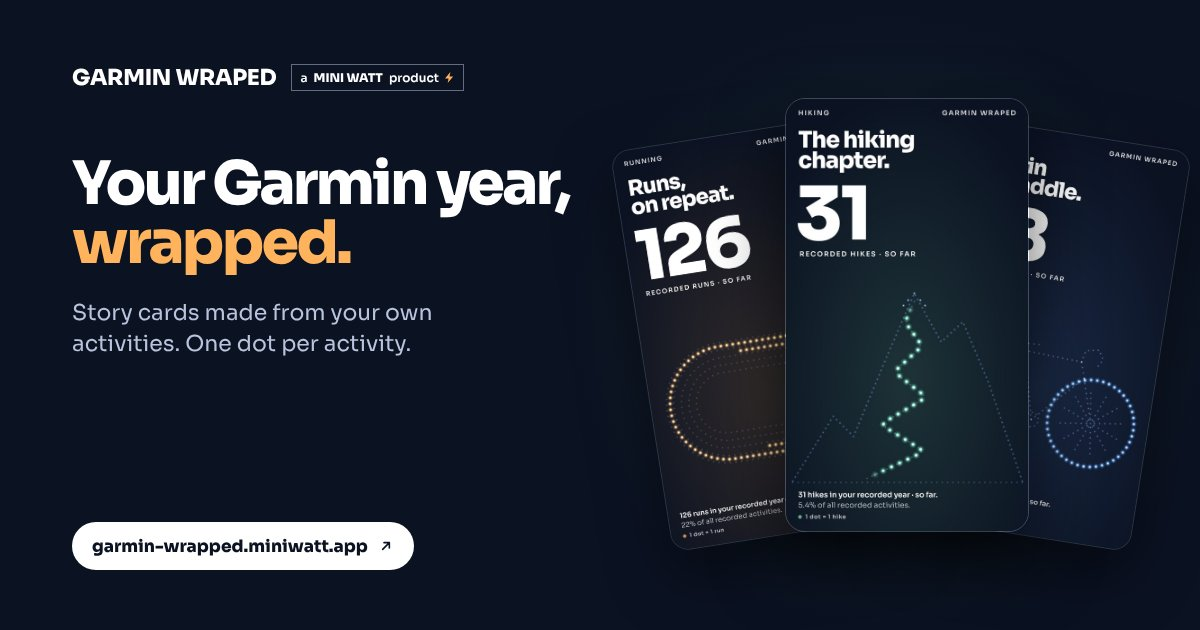
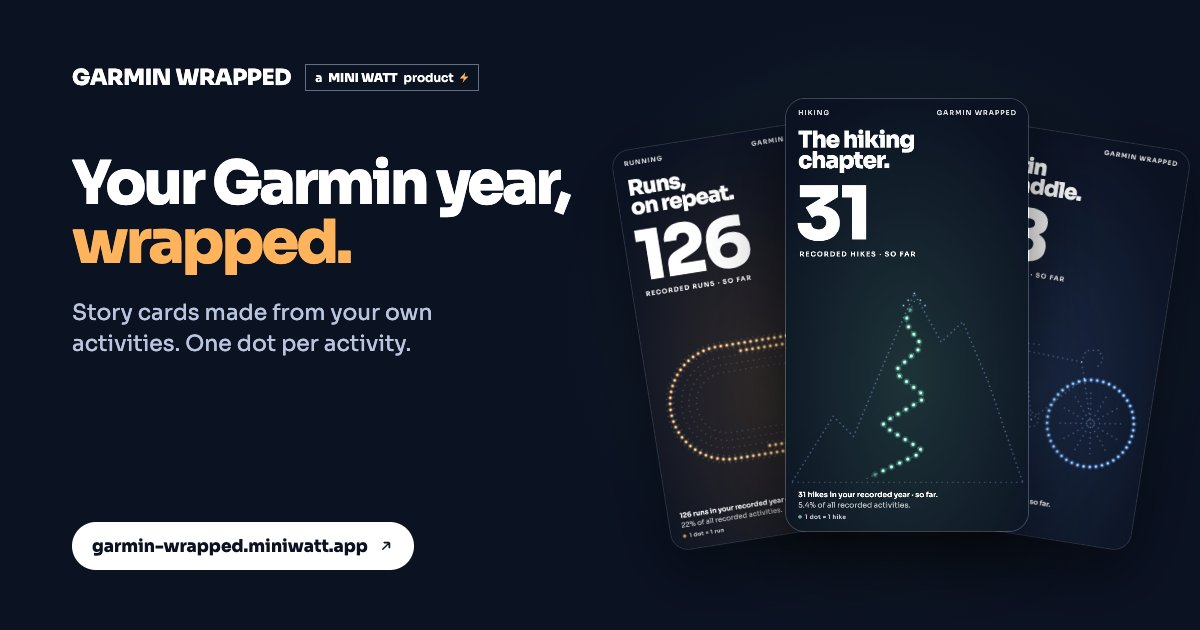
wraped typo

diff --git a/track-record-stories/ui/index.html b/track-record-stories/ui/index.html
@@ -21,12 +21,12 @@
   <meta property="og:image:type" content="image/jpeg">
   <meta property="og:image:width" content="1200">
   <meta property="og:image:height" content="630">
-  <meta property="og:image:alt" content="Your Garmin year, wrapped. Three Garmin Wraped story cards (hiking, running and cycling) drawn in glowing dots, by MINI WATT.">
+  <meta property="og:image:alt" content="Your Garmin year, wrapped. Three Garmin Wrapped story cards (hiking, running and cycling) drawn in glowing dots, by MINI WATT.">
   <meta name="twitter:card" content="summary_large_image">
   <meta name="twitter:title" content="Garmin Wrapped: Your Garmin Connect Year in Review">
   <meta name="twitter:description" content="Turn your Garmin Connect activities into a personal year in review with sport highlights and shareable story cards.">
   <meta name="twitter:image" content="https://garmin-wrapped.miniwatt.app/social-preview.jpg">
-  <meta name="twitter:image:alt" content="Your Garmin year, wrapped. Three Garmin Wraped story cards (hiking, running and cycling) drawn in glowing dots, by MINI WATT.">
+  <meta name="twitter:image:alt" content="Your Garmin year, wrapped. Three Garmin Wrapped story cards (hiking, running and cycling) drawn in glowing dots, by MINI WATT.">
   <script type="application/ld+json">
     {
       "@context": "https://schema.org",
@@ -41,8 +41,7 @@
           "@type": "WebSite",
           "@id": "https://garmin-wrapped.miniwatt.app/#website",
           "url": "https://garmin-wrapped.miniwatt.app/",
-          "name": "Garmin Wraped",
-          "alternateName": "Garmin Wrapped",
+          "name": "Garmin Wrapped",
           "inLanguage": "en",
           "publisher": { "@id": "https://miniwatt.app/#organization" }
         },
@@ -50,8 +49,7 @@
           "@type": "WebApplication",
           "@id": "https://garmin-wrapped.miniwatt.app/#app",
           "url": "https://garmin-wrapped.miniwatt.app/",
-          "name": "Garmin Wraped",
-          "alternateName": "Garmin Wrapped",
+          "name": "Garmin Wrapped",
           "description": "Create a personal Garmin Connect year in review with year-to-date activity totals, sport highlights and downloadable story cards.",
           "applicationCategory": "HealthApplication",
           "operatingSystem": "Any",
@@ -78,7 +76,7 @@
 <body class="onboarding-active">
   <canvas id="entry-field" class="gw-field" aria-hidden="true"></canvas>
   <div id="entry-intro" class="gw-intro" role="region" aria-label="Your Garmin Wrapped intro" hidden>
-    <div class="gw-intro-top"><span class="gw-wordmark">GARMIN WRAPED</span><button id="intro-skip" class="gw-text-btn" type="button">Skip intro <svg class="gw-arrow" viewBox="0 0 24 24" aria-hidden="true"><path d="M5 19 19 5M7 5h12v12"/></svg></button></div>
+    <div class="gw-intro-top"><span class="gw-wordmark">GARMIN WRAPPED</span><button id="intro-skip" class="gw-text-btn" type="button">Skip intro <svg class="gw-arrow" viewBox="0 0 24 24" aria-hidden="true"><path d="M5 19 19 5M7 5h12v12"/></svg></button></div>
     <div class="gw-intro-scene gw-intro-one" aria-hidden="true">
       <p class="gw-kicker">Every effort. All yours.</p>
       <p class="gw-display"><span class="gw-line"><span>Your Garmin,</span></span><span class="gw-line"><span>wrapped<i>.</i></span></span></p>
@@ -103,7 +101,7 @@
   </div>
   <main class="onboarding gw-entry" id="onboarding" aria-label="Your Garmin year, wrapped">
     <header class="gw-header">
-      <div class="brand"><a class="brand-name" href="#connect" aria-label="Garmin Wraped home">GARMIN WRAPED</a><a class="brand-product product-credit" href="https://miniwatt.app/?utm_source=garmin_wraped&amp;utm_medium=referral&amp;utm_campaign=product_credit&amp;utm_content=header" target="_blank" rel="noopener noreferrer">a <strong>MINI WATT</strong> product <svg class="gw-bolt" viewBox="0 0 10 12" aria-hidden="true"><path d="M6 0 0 7h4l-1 5 6-7H5z"/></svg><span class="sr-only"> (opens in a new tab)</span></a></div>
+      <div class="brand"><a class="brand-name" href="#connect" aria-label="Garmin Wrapped home">GARMIN WRAPPED</a><a class="brand-product product-credit" href="https://miniwatt.app/?utm_source=garmin_wrapped&amp;utm_medium=referral&amp;utm_campaign=product_credit&amp;utm_content=header" target="_blank" rel="noopener noreferrer">a <strong>MINI WATT</strong> product <svg class="gw-bolt" viewBox="0 0 10 12" aria-hidden="true"><path d="M6 0 0 7h4l-1 5 6-7H5z"/></svg><span class="sr-only"> (opens in a new tab)</span></a></div>
       <span class="gw-kicker gw-edition" id="entry-edition">Your year in review</span>
     </header>
     <div id="connect-screen" class="gw-connect">
@@ -185,16 +183,16 @@
       <a class="gw-source" href="https://developer.garmin.com/gc-developer-program/personal/personal-faq/" target="_blank" rel="noopener noreferrer">Instructions from Garmin’s official Personal API FAQ ↗<span class="sr-only"> (opens in a new tab)</span></a>
       <div class="gw-actions"><!--dev-only--><button id="help-demo" class="gw-btn gw-btn-ghost">Try the demo</button><!--/dev-only--><button id="help-done" class="gw-btn gw-btn-primary">I’ve got my key</button></div>
     </div>
-    <p class="gw-fine help-preview-note">Use only your own Garmin account’s key.<!--dev-only--> The demo needs no key and uses fictional data.<!--/dev-only--> Garmin Wraped is an independent MINI WATT project, not affiliated with Garmin.</p>
+    <p class="gw-fine help-preview-note">Use only your own Garmin account’s key.<!--dev-only--> The demo needs no key and uses fictional data.<!--/dev-only--> Garmin Wrapped is an independent MINI WATT project, not affiliated with Garmin.</p>
   </dialog>
   <main class="story" hidden inert id="story" aria-label="Your year in motion">
     <canvas id="backdrop" aria-hidden="true"></canvas>
     <canvas id="poster" aria-hidden="true"></canvas>
-    <div id="card-actions" class="card-actions mw-promo" hidden><div id="mini-watt-offer" hidden><div class="mw-copy"><p class="mw-brand"><svg class="mw-bolt" viewBox="0 0 10 12" aria-hidden="true"><path d="M6 0 0 7h4l-1 5 6-7H5z"/></svg>MINI WATT</p><h2 class="mw-title">Keep riding <span>indoors.</span></h2><p class="mw-lede">Put your bike on a smart trainer. Ride workouts and real routes.</p></div><div class="mw-art"><div class="mw-rider"><img class="mw-halftone" src="/assets/miniwatt-halftone.svg" alt="" aria-hidden="true"><img class="mw-photo" src="/assets/miniwatt-rider.webp" alt="A rider pedalling a road bike mounted on a smart trainer" width="600" height="950" decoding="async"><span class="mw-trail" aria-hidden="true"><i></i><i></i><i></i><i></i><i></i><i></i><i></i><i></i></span></div></div><div class="mw-chips" aria-hidden="true"><div class="mw-chip"><span class="mw-chip-icon is-bolt"><svg viewBox="0 0 10 12" aria-hidden="true"><path d="M6 0 0 7h4l-1 5 6-7H5z"/></svg></span><span class="mw-chip-text"><span class="mw-chip-label">Power</span><span class="mw-chip-value"><span id="mw-power">248</span> <small>W</small></span></span></div><div class="mw-chip"><span class="mw-chip-icon"><svg viewBox="0 0 21 21" fill="none" stroke="currentColor" stroke-width="2.2" stroke-linecap="round"><path d="M3 18v-6M8 18V6M13 18V9M18 18V3"/></svg></span><span class="mw-chip-text"><span class="mw-chip-label">Next interval</span><span class="mw-chip-value"><span id="mw-next">280</span> W <small class="mw-hi">in <span id="mw-countdown">0:42</span></small></span></span></div><div class="mw-chip mw-chip-gradient"><span class="mw-chip-icon"><svg viewBox="0 0 21 21" fill="none" stroke="currentColor" stroke-width="2.2" stroke-linecap="round" stroke-linejoin="round"><path d="M3 18c3 0 3-5 6-5s3 3 6 3 3-7 3-10"/></svg></span><span class="mw-chip-text"><span class="mw-chip-label">Gradient</span><span class="mw-chip-value">7.2 <small>%</small></span></span></div></div><p class="mw-sticker" aria-hidden="true"><span>14 days</span><b>Free</b></p><div class="mw-action"><a class="mini-watt-cta" href="https://www.miniwatt.app/download?utm_source=garmin_wraped&amp;utm_medium=referral&amp;utm_campaign=cycling_promotion&amp;utm_content=recap_cta" target="_blank" rel="noopener noreferrer"><span>Try MINI WATT free</span><span class="mw-arrow" aria-hidden="true"><svg viewBox="0 0 24 24" fill="none" stroke="currentColor" stroke-width="2.4" stroke-linecap="round" stroke-linejoin="round"><path d="M7 17 17 7M9 7h8v8"/></svg></span><span class="sr-only"> (opens in a new tab)</span></a><p class="mini-watt-details"><span class="sr-only">14 days free. </span>Then <b>$1.99/month</b> · Mac + Windows<br>Works with any Bluetooth FTMS smart trainer</p></div></div></div>
+    <div id="card-actions" class="card-actions mw-promo" hidden><div id="mini-watt-offer" hidden><div class="mw-copy"><p class="mw-brand"><svg class="mw-bolt" viewBox="0 0 10 12" aria-hidden="true"><path d="M6 0 0 7h4l-1 5 6-7H5z"/></svg>MINI WATT</p><h2 class="mw-title">Keep riding <span>indoors.</span></h2><p class="mw-lede">Put your bike on a smart trainer. Ride workouts and real routes.</p></div><div class="mw-art"><div class="mw-rider"><img class="mw-halftone" src="/assets/miniwatt-halftone.svg" alt="" aria-hidden="true"><img class="mw-photo" src="/assets/miniwatt-rider.webp" alt="A rider pedalling a road bike mounted on a smart trainer" width="600" height="950" decoding="async"><span class="mw-trail" aria-hidden="true"><i></i><i></i><i></i><i></i><i></i><i></i><i></i><i></i></span></div></div><div class="mw-chips" aria-hidden="true"><div class="mw-chip"><span class="mw-chip-icon is-bolt"><svg viewBox="0 0 10 12" aria-hidden="true"><path d="M6 0 0 7h4l-1 5 6-7H5z"/></svg></span><span class="mw-chip-text"><span class="mw-chip-label">Power</span><span class="mw-chip-value"><span id="mw-power">248</span> <small>W</small></span></span></div><div class="mw-chip"><span class="mw-chip-icon"><svg viewBox="0 0 21 21" fill="none" stroke="currentColor" stroke-width="2.2" stroke-linecap="round"><path d="M3 18v-6M8 18V6M13 18V9M18 18V3"/></svg></span><span class="mw-chip-text"><span class="mw-chip-label">Next interval</span><span class="mw-chip-value"><span id="mw-next">280</span> W <small class="mw-hi">in <span id="mw-countdown">0:42</span></small></span></span></div><div class="mw-chip mw-chip-gradient"><span class="mw-chip-icon"><svg viewBox="0 0 21 21" fill="none" stroke="currentColor" stroke-width="2.2" stroke-linecap="round" stroke-linejoin="round"><path d="M3 18c3 0 3-5 6-5s3 3 6 3 3-7 3-10"/></svg></span><span class="mw-chip-text"><span class="mw-chip-label">Gradient</span><span class="mw-chip-value">7.2 <small>%</small></span></span></div></div><p class="mw-sticker" aria-hidden="true"><span>14 days</span><b>Free</b></p><div class="mw-action"><a class="mini-watt-cta" href="https://www.miniwatt.app/download?utm_source=garmin_wrapped&amp;utm_medium=referral&amp;utm_campaign=cycling_promotion&amp;utm_content=recap_cta" target="_blank" rel="noopener noreferrer"><span>Try MINI WATT free</span><span class="mw-arrow" aria-hidden="true"><svg viewBox="0 0 24 24" fill="none" stroke="currentColor" stroke-width="2.4" stroke-linecap="round" stroke-linejoin="round"><path d="M7 17 17 7M9 7h8v8"/></svg></span><span class="sr-only"> (opens in a new tab)</span></a><p class="mini-watt-details"><span class="sr-only">14 days free. </span>Then <b>$1.99/month</b> · Mac + Windows<br>Works with any Bluetooth FTMS smart trainer</p></div></div></div>
     <div id="share-prompt" class="share-prompt" role="region" aria-label="Share your year" hidden><div class="share-prompt-copy"><strong>Share your year</strong></div><button id="finale-share" class="share-prompt-button" type="button">Share</button><button id="share-prompt-close" class="share-prompt-close" type="button" aria-label="Dismiss"><svg viewBox="0 0 24 24" fill="none" stroke="currentColor" stroke-width="1.8" stroke-linecap="round" aria-hidden="true"><path d="M6 6l12 12M18 6 6 18"/></svg></button></div>
     <div class="story-chrome">
       <header>
-        <div class="brand"><a class="brand-name" href="#cover" aria-label="Garmin Wraped back to the cover">GARMIN WRAPED</a><a class="brand-product product-credit" href="https://miniwatt.app/?utm_source=garmin_wraped&amp;utm_medium=referral&amp;utm_campaign=product_credit&amp;utm_content=header" target="_blank" rel="noopener noreferrer">a <strong>MINI WATT</strong> product <span aria-hidden="true">⚡ ↗</span><span class="sr-only"> (opens in a new tab)</span></a></div>
+        <div class="brand"><a class="brand-name" href="#cover" aria-label="Garmin Wrapped back to the cover">GARMIN WRAPPED</a><a class="brand-product product-credit" href="https://miniwatt.app/?utm_source=garmin_wrapped&amp;utm_medium=referral&amp;utm_campaign=product_credit&amp;utm_content=header" target="_blank" rel="noopener noreferrer">a <strong>MINI WATT</strong> product <span aria-hidden="true">⚡ ↗</span><span class="sr-only"> (opens in a new tab)</span></a></div>
         <div class="edition"><span>YOUR YEAR</span><span id="edition-year"></span></div>
         <button class="icon-button menu-button" id="chapters-button" aria-label="Choose a story" aria-expanded="false" aria-controls="chapters-dialog"><svg viewBox="0 0 24 24" fill="none" stroke="currentColor" stroke-width="1.5" aria-hidden="true"><path d="M4 6h16M4 12h16M4 18h16"/></svg></button>
         <button class="icon-button share-icon" id="share-icon" type="button" aria-label="Share this card"><svg viewBox="0 0 24 24" fill="none" stroke="currentColor" stroke-width="1.6" stroke-linecap="round" stroke-linejoin="round" aria-hidden="true"><path d="M12 14V3M7.5 7.5 12 3l4.5 4.5"/><path d="M5 11v8a2 2 0 0 0 2 2h10a2 2 0 0 0 2-2v-8"/></svg></button>
@@ -204,7 +202,7 @@
       <section class="sr-only" aria-live="polite" aria-atomic="true"><h1 id="story-title">Your year in motion</h1><p id="story-description"></p></section>
       <footer>
         <div class="footer-top"><div class="footer-copy"><p id="caption"></p><p id="dot-key" class="dot-key" hidden></p></div><button id="advance" class="advance" aria-label="Next story"><svg viewBox="0 0 24 24" fill="none" stroke="currentColor" stroke-width="1.6" aria-hidden="true"><path d="m9 5 7 7-7 7"/></svg></button></div>
-        <div class="footer-bottom"><span class="demo-label"></span><a class="footer-credit product-credit" href="https://miniwatt.app/?utm_source=garmin_wraped&amp;utm_medium=referral&amp;utm_campaign=product_credit&amp;utm_content=footer" target="_blank" rel="noopener noreferrer">a <strong>MINI WATT</strong> product <span aria-hidden="true">⚡ ↗</span><span class="sr-only"> (opens in a new tab)</span></a><div class="footer-actions"><button id="back" class="text-button" aria-label="Previous story">Back</button><button id="motion" class="text-button" aria-pressed="false">Pause</button><button id="share" class="text-button">Share card <span aria-hidden="true">↗</span></button></div></div>
+        <div class="footer-bottom"><span class="demo-label"></span><a class="footer-credit product-credit" href="https://miniwatt.app/?utm_source=garmin_wrapped&amp;utm_medium=referral&amp;utm_campaign=product_credit&amp;utm_content=footer" target="_blank" rel="noopener noreferrer">a <strong>MINI WATT</strong> product <span aria-hidden="true">⚡ ↗</span><span class="sr-only"> (opens in a new tab)</span></a><div class="footer-actions"><button id="back" class="text-button" aria-label="Previous story">Back</button><button id="motion" class="text-button" aria-pressed="false">Pause</button><button id="share" class="text-button">Share card <span aria-hidden="true">↗</span></button></div></div>
       </footer>
     </div>
   </main>
@@ -242,7 +240,7 @@
   <dialog id="privacy-dialog" class="gw-dialog gw-privacy-dialog" aria-labelledby="privacy-title">
     <div class="gw-dialog-head"><div><p class="gw-kicker gw-accent">Data &amp; privacy</p><h2 id="privacy-title" class="gw-dialog-title">Your data.<br>Your call<i>.</i></h2></div><button id="close-privacy" class="gw-close" aria-label="Close privacy"><svg viewBox="0 0 24 24" aria-hidden="true"><path d="M5 5l14 14M19 5 5 19"/></svg></button></div>
     <div class="privacy-copy">
-      <p class="gw-dialog-intro">Garmin Wraped is an independent MINI WATT project. Each visitor connects only their own Garmin account using their own Personal API key. Garmin Wraped is not affiliated with or endorsed by Garmin.</p>
+      <p class="gw-dialog-intro">Garmin Wrapped is an independent MINI WATT project. Each visitor connects only their own Garmin account using their own Personal API key. Garmin Wrapped is not affiliated with or endorsed by Garmin.</p>
       <div class="gw-privacy-grid">
         <section style="--c:#FFB35C"><h3>Your key</h3><p>Your key is exchanged with Garmin by this site’s server over HTTPS and never stored there. If you tick “Remember my key”, it is kept in this browser’s storage until you select Forget key or Clear my data. A secure, encrypted connection cookie expires after 20 minutes and is cleared when the import finishes or you disconnect. Tabs in the same browser share a connection cookie; import one account at a time.</p></section>
         <section style="--c:#6FA8FF"><h3>Your recap</h3><p>The recap lives only in this tab’s memory. Refreshing or closing the tab removes it. “Clear my data” removes the recap, export preview, connection cookie and any remembered key. Downloaded PNG files and shares you send remain on your device or in the receiving app.</p></section>

diff --git a/track-record-stories/public/privacy.html b/track-record-stories/public/privacy.html
@@ -4,8 +4,8 @@
   <meta charset="utf-8">
   <meta name="viewport" content="width=device-width,initial-scale=1,viewport-fit=cover">
   <meta name="theme-color" content="#0B1222">
-  <meta name="description" content="How Garmin Wraped handles your Garmin key, activity and health data, cookies and browser storage. No analytics, no tracking, no ads.">
-  <title>Privacy &amp; cookies | Garmin Wraped by MINI WATT</title>
+  <meta name="description" content="How Garmin Wrapped handles your Garmin key, activity and health data, cookies and browser storage. No analytics, no tracking, no ads.">
+  <title>Privacy &amp; cookies | Garmin Wrapped by MINI WATT</title>
   <link rel="canonical" href="https://garmin-wrapped.miniwatt.app/privacy">
   <link rel="icon" href="/favicon.svg" type="image/svg+xml">
   <link rel="icon" href="/favicon-32.png" type="image/png" sizes="32x32">
@@ -14,14 +14,14 @@
 </head>
 <body>
   <header class="pp-header">
-    <a class="pp-brand" href="/">GARMIN WRAPED</a>
-    <a class="pp-back" href="/"><svg viewBox="0 0 24 24" aria-hidden="true"><path d="M20 12H4M11 5l-7 7 7 7"/></svg>Back to Garmin Wraped</a>
+    <a class="pp-brand" href="/">GARMIN WRAPPED</a>
+    <a class="pp-back" href="/"><svg viewBox="0 0 24 24" aria-hidden="true"><path d="M20 12H4M11 5l-7 7 7 7"/></svg>Back to Garmin Wrapped</a>
   </header>
 
   <main class="pp-main">
     <p class="pp-kicker">Privacy &amp; cookies</p>
     <h1>Your data.<br>Your call<i>.</i></h1>
-    <p class="pp-lede">Garmin Wraped turns your Garmin year into story cards. This page explains exactly what we touch, what we keep (almost nothing) and what you can do about it.</p>
+    <p class="pp-lede">Garmin Wrapped turns your Garmin year into story cards. This page explains exactly what we touch, what we keep (almost nothing) and what you can do about it.</p>
     <p class="pp-updated">Last updated 3 November 2026</p>
 
     <h2 class="pp-label">The short version</h2>
@@ -33,7 +33,7 @@
     </div>
 
     <h2>1. Who we are</h2>
-    <p>Garmin Wraped (garmin-wrapped.miniwatt.app) is an independent MINI WATT project, run by <b>Nick Smet</b> in Kalmthout, Belgium. Nick Smet is the data controller for this site. Questions or requests: <a href="mailto:info@miniwatt.app">info@miniwatt.app</a>. Garmin Wraped is not affiliated with or endorsed by Garmin.</p>
+    <p>Garmin Wrapped (garmin-wrapped.miniwatt.app) is an independent MINI WATT project, run by <b>Nick Smet</b> in Kalmthout, Belgium. Nick Smet is the data controller for this site. Questions or requests: <a href="mailto:info@miniwatt.app">info@miniwatt.app</a>. Garmin Wrapped is not affiliated with or endorsed by Garmin.</p>
 
     <h2>2. What we process and why</h2>
     <div class="pp-table" role="region" aria-label="What we process and why" tabindex="0">
@@ -76,7 +76,7 @@
     <p>Everything travels over HTTPS. The connection cookie is encrypted and can’t be read by scripts. The app loads no outside scripts and blocks them with a strict content security policy. Shared cards contain only the shown metric: no names, Garmin IDs or precise locations.</p>
 
     <h2>7. Children and changes</h2>
-    <p>Garmin Wraped is not meant for children under 13. If this policy changes, we update the date at the top of this page.</p>
+    <p>Garmin Wrapped is not meant for children under 13. If this policy changes, we update the date at the top of this page.</p>
   </main>
 
   <footer class="pp-footer">

diff --git a/track-record-stories/source-assets/social-preview.html b/track-record-stories/source-assets/social-preview.html
@@ -1,7 +1,7 @@
 <!doctype html>
 <html lang="en">
 <meta charset="utf-8">
-<title>Garmin Wraped social preview artwork</title>
+<title>Garmin Wrapped social preview artwork</title>
 <!--
   1200 x 630 share image. The three cards are real renders of the busy fictional sample year
   (renderShareCard on sample-full-hiking-sessions, -running-sessions, -cycling-sessions), saved in
@@ -33,7 +33,7 @@
 <div class="glow"></div>
 <div class="copy">
   <div class="brand">
-    <span class="wordmark">GARMIN WRAPED</span>
+    <span class="wordmark">GARMIN WRAPPED</span>
     <span class="chip">a <b>MINI WATT</b> product <svg width="9" height="11" viewBox="0 0 10 12"><path d="M6 0 0 7h4l-1 5 6-7H5z" fill="#FFB35C"/></svg></span>
   </div>
   <h1>Your Garmin year,<br><span>wrapped.</span></h1>

diff --git a/track-record-stories/public/screens.css b/track-record-stories/public/screens.css
@@ -1,4 +1,4 @@
-/* Garmin Wraped app screens in the "one dot per activity" design:
+/* Garmin Wrapped app screens in the "one dot per activity" design:
    intro, connect, key help, loading, share, health consent, chapters, data & privacy.
    Navy ground, Sora type, the dot globe (entry-field.js) as the only artwork. */
 :root{--gw-navy:#0B1222;--gw-panel:#0E172C;--gw-accent:#FFB35C;--gw-accent-hi:#FFC47E;--gw-ink:#FFFFFF;--gw-dim:rgba(255,255,255,.72);--gw-line:rgba(255,255,255,.14);--gw-red:#FF6B7A;--gw-warm:#FFD9A0;--gw-gutter:clamp(20px,6vw,96px);--gw-rise:cubic-bezier(.2,.8,.2,1)}

diff --git a/track-record-stories/public/key-store.js b/track-record-stories/public/key-store.js
@@ -1,4 +1,4 @@
-/* The one thing Garmin Wraped keeps in the browser: the visitor's own Garmin Personal API key,
+/* The one thing Garmin Wrapped keeps in the browser: the visitor's own Garmin Personal API key,
    and only after they tick "Remember my key on this device" (consent under the ePrivacy rules).
    This is the only file allowed to touch browser storage (scripts/check.mjs enforces it).
    Recaps, activity and health records always stay in memory. */

diff --git a/track-record-stories/source-assets/brand-icons.html b/track-record-stories/source-assets/brand-icons.html
@@ -1,7 +1,7 @@
 <!doctype html>
 <html lang="en">
 <meta charset="utf-8">
-<title>Garmin Wraped icon: the MINI WATT bolt in dots</title>
+<title>Garmin Wrapped icon: the MINI WATT bolt in dots</title>
 <!--
   Renders the app icon at ?size=N (default 512). ?round=0 draws a square tile (for apple-touch-icon,
   which iOS masks itself). The bolt is the miniwatt.app logo sampled into dot grids: finer grids for

diff --git a/track-record-stories/DESIGN.md b/track-record-stories/DESIGN.md
@@ -1,6 +1,6 @@
 # Current direction: one dot per activity (October 2026)
 
-The recap now follows the *Garmin Wraped — One dot per activity* design canvas (89 cards). Navy ground, Sora type, and light that comes only from the dots: bright data dots, exactly as many as the card's legend says, and faint guide dots that draw the sport (track, wheel, court, dial). Each card enters with rising titles, counting heroes and dots that fly in (from the previous card's dots when navigating); ambient loops continue while reading. Reduced motion shows the settled card; pause freezes everything; hidden tabs and open dialogs stop rendering.
+The recap now follows the *Garmin Wrapped — One dot per activity* design canvas (89 cards). Navy ground, Sora type, and light that comes only from the dots: bright data dots, exactly as many as the card's legend says, and faint guide dots that draw the sport (track, wheel, court, dial). Each card enters with rising titles, counting heroes and dots that fly in (from the previous card's dots when navigating); ambient loops continue while reading. Reduced motion shows the settled card; pause freezes everything; hidden tabs and open dialogs stop rendering.
 
 - Portrait screens show the card as designed, fitted between the header and the caption/controls. Wide screens (tablet landscape, desktop) put the type in a left column and the dot artwork, scaled up, in a right column.
 - Exports are the full 360 × 640 card at 3× (1080 × 1920) with branding, year, caption and data notice. Original keeps the navy and sport colours; Paper, Cobalt and Ember recolour type and dots by role so highlights stay distinct.

diff --git a/track-record-stories/README.md b/track-record-stories/README.md
@@ -1,4 +1,4 @@
-# Garmin Wraped — a MINI WATT product ⚡
+# Garmin Wrapped — a MINI WATT product ⚡
 
 A Garmin annual recap prepared for independent visitors at **https://garmin-wrapped.miniwatt.app**. The existing sports-poster design, motion controls, 1080×1920 exports, fictional demo and 184-concept design library are preserved. Real stories are calculated from imported records and admitted only when their required measurements are complete.
 
@@ -92,4 +92,4 @@ Data-quality notes and optional-source failures are available under the story me
 
 Cycling recaps end with a MINI WATT invitation after the year receipt. It is shown only when an admitted cycling chapter exists, is excluded from personal card exports, and links to miniwatt.app without passing recap data.
 
-Outbound MINI WATT links use `utm_source=garmin_wraped` and `utm_medium=referral`. Product credits use `utm_campaign=product_credit` with `utm_content=header` or `footer`; the cycling invitation uses `utm_campaign=cycling_promotion` and `utm_content=recap_cta`.
+Outbound MINI WATT links use `utm_source=garmin_wrapped` and `utm_medium=referral`. Product credits use `utm_campaign=product_credit` with `utm_content=header` or `footer`; the cycling invitation uses `utm_campaign=cycling_promotion` and `utm_content=recap_cta`.

diff --git a/track-record-stories/DOT-DESIGN.md b/track-record-stories/DOT-DESIGN.md
@@ -1,6 +1,6 @@
 # Dot design inventory (89 cards)
 
-Source: Design canvas *Garmin Wraped — One dot per activity* (23 boards, 89 cards; each board shows a busy 572-activity sample year and a low-count sample year). Every card is implemented by `public/dot-engine.mjs` (geometry, ported from the design's GWDots engine v2) and `public/dot-spec.mjs` (story → card mapping).
+Source: Design canvas *Garmin Wrapped — One dot per activity* (23 boards, 89 cards; each board shows a busy 572-activity sample year and a low-count sample year). Every card is implemented by `public/dot-engine.mjs` (geometry, ported from the design's GWDots engine v2) and `public/dot-spec.mjs` (story → card mapping).
 
 Feedback round 1 (29 Oct 2026): hours cards use a sport-specific outline (track, chainring, interval timer, kettlebell, footprint, boot, pool, oar, mat, ring, elliptical, skis, golf ball, racket, three rings, pitch, carabiner, heart, star) filled with one dot per stated unit; cycling and strength sessions fill a bike's wheels and a dumbbell outline; running distance traces a shoe and cycling distance traces a bike. Grey dots show the unfilled part of each outline. The dot key sits under the caption instead of under the number.
 
